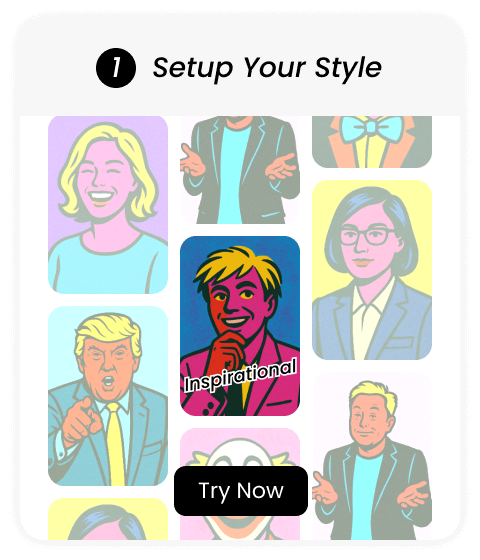
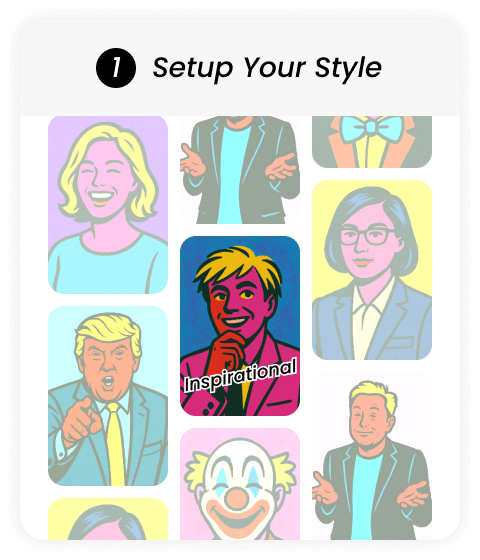
feat: 修改测试环境指引样式

Changed region(s): [[0.3438, 0.8196, 0.6562, 0.9411]]

diff --git a/components/home/HowToUse.tsx b/components/home/HowToUse.tsx
@@ -1,4 +1,4 @@
-import { Modal, ModalBody, ModalContent } from '@heroui/react';
+import { Button, Modal, ModalBody, ModalContent } from '@heroui/react';
 import Image from 'next/image';
 import { useRouter } from 'next/navigation';
 import { useState } from 'react';
@@ -80,12 +80,8 @@ export const HowToUse = ({
             return (
               <div
                 key={step.alt}
-                className={`relative flex-1 rounded-[12px] transition-all duration-300 ease-in-out ${
-                  isHoverable
-                    ? 'hover:transform hover:-translate-y-2 cursor-pointer'
-                    : ''
-                }`}
-                onClick={isHoverable ? handleClick : undefined}
+                className={`relative flex-1 rounded-[12px] transition-all duration-300 ease-in-out`}
+                // onClick={isHoverable ? handleClick : undefined}
               >
                 <Image
                   key={step.alt}
@@ -95,6 +91,15 @@ export const HowToUse = ({
                   height={260}
                   className="w-full h-auto"
                 />
+
+                {isHoverable && (
+                  <Button
+                    className="absolute bottom-[10%] left-[50%] translate-x-[-50%] w-[67px] h-[24px] text-[11px] rounded-[6px] font-[400] text-white bg-black hover:bg-black/80"
+                    onClick={isHoverable ? handleClick : undefined}
+                  >
+                    Try Now
+                  </Button>
+                )}
               </div>
             );
           })}
